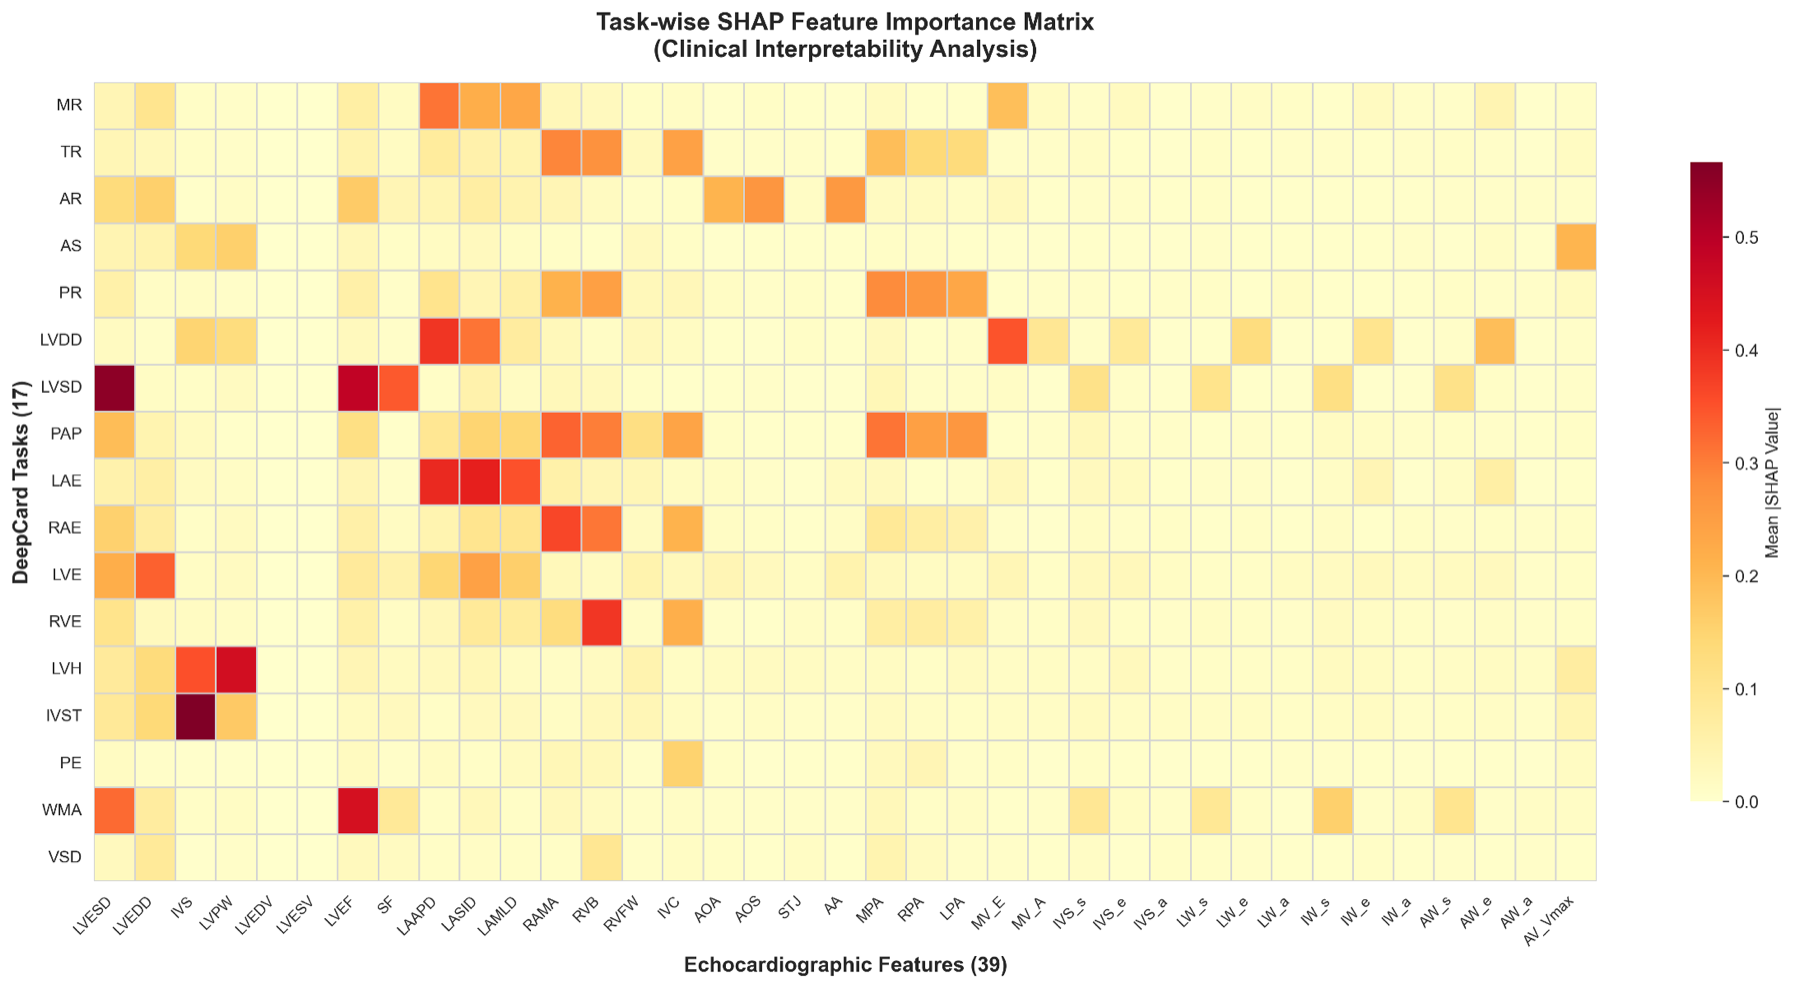
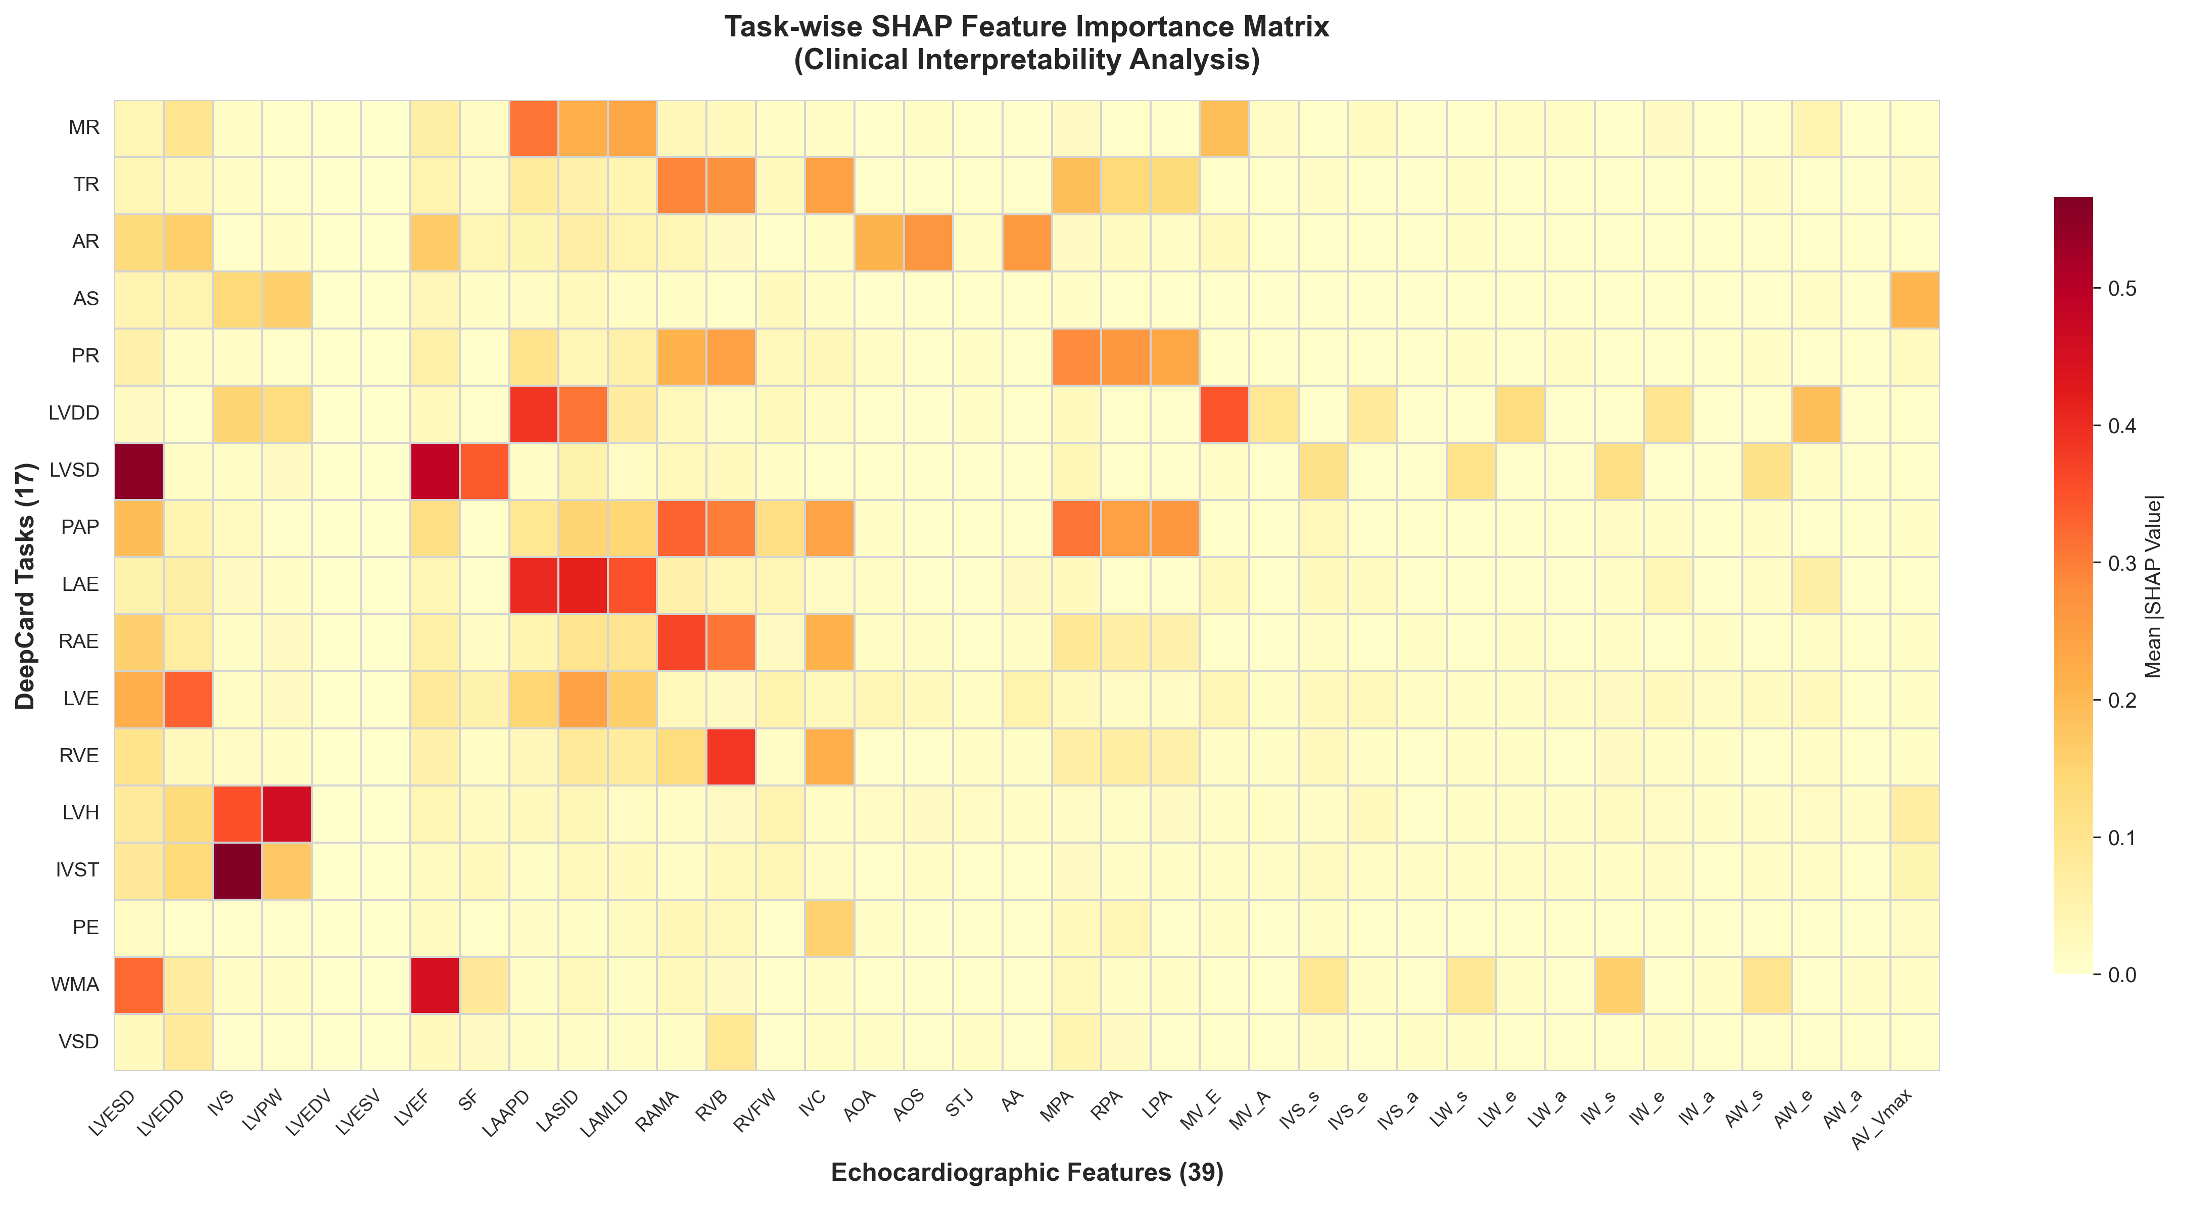
assets: publish full opaque figures from final sources

diff --git a/assets/README.md b/assets/README.md
@@ -14,3 +14,5 @@
 | `physician-consistency.png` | Figure 12 — physician-specialty and demographic consistency analysis |
 
 Figures are reproduced unchanged from the authors' open-access article under CC BY-NC-ND 4.0: [doi:10.1016/j.isci.2026.116904](https://doi.org/10.1016/j.isci.2026.116904).
+
+README-facing figures preserve the complete published canvas and all original panels. They are exported from the final RGB figure sources with an opaque white background; no panel is cropped, recomposed, or placed on transparency.
